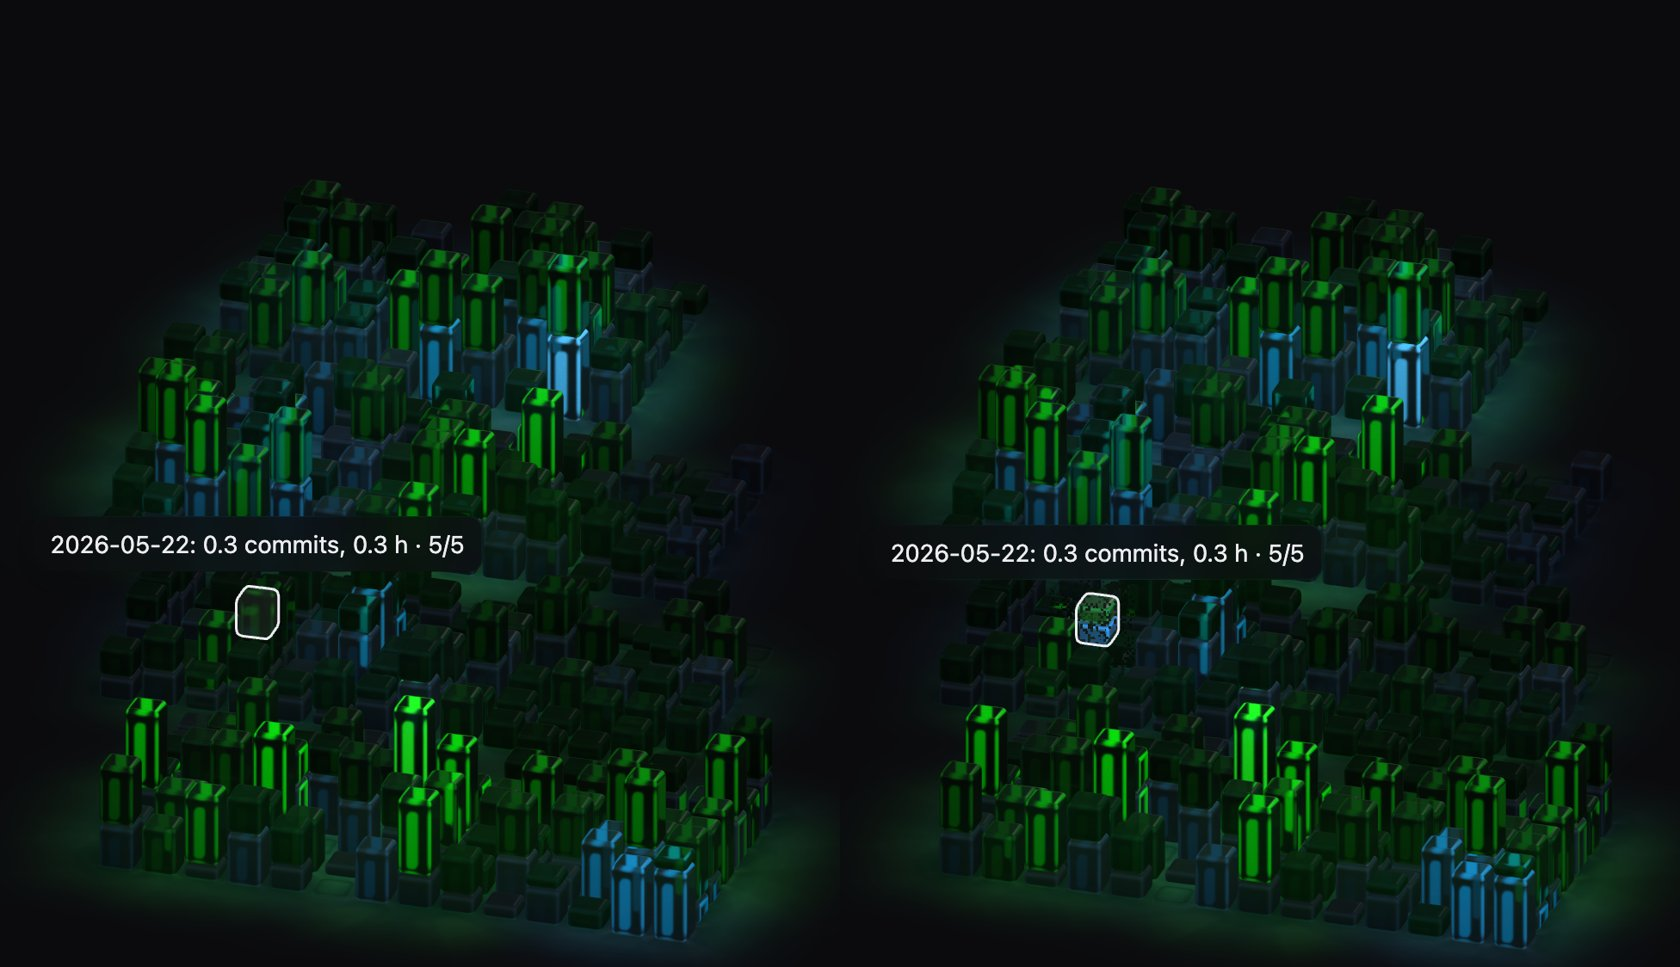
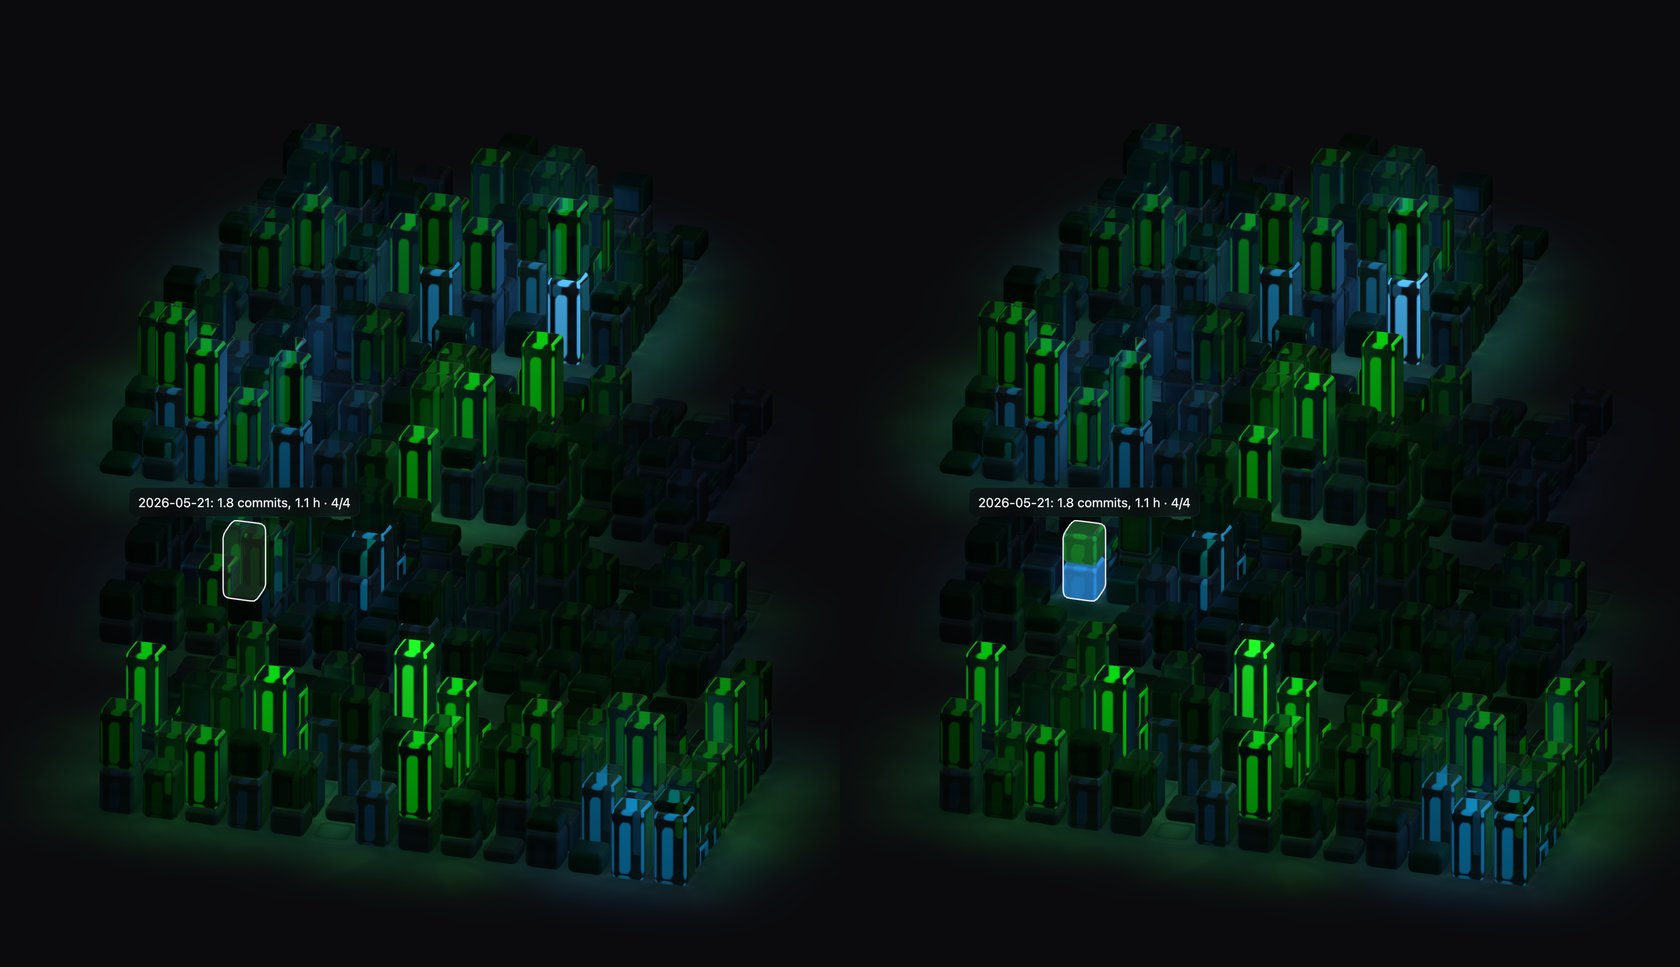
Docs: cutaway and dark-glass pictures from the current look; README describes the dark glass's edges, reflections and absorption
- docs/cutaway-light.jpg, docs/cutaway-dark.jpg: the plain fade (were the
  halftone), 4 strips, full data, settled, cutaway off (left) and on (right).
- docs/dim-blocks.jpg, docs/dim-isolated.jpg, docs/edge-light.jpg: the
  current dark glass (one picture each; they were before/after pairs of
  earlier states).
- README: the dark theme's "How it works" says what the glass does (quiet
  days, directional edges, reflections of the lit blocks, the ground's light
  dimmed by the glass); the cutaway picture's alt text matches the new day.

diff --git a/README.md b/README.md
@@ -173,7 +173,7 @@ The [demo](https://neon.bsodium.fr/) has a few presets (Technicolor, Ice, Sunset
 ## Cutaway
 
 <p align="center">
-  <img alt="Light theme, a day behind a stack of five: cutaway off (left) and on (right)" src="docs/cutaway-light.jpg" width="49%" />
+  <img alt="Light theme, a day at the back of a stack of four: cutaway off (left) and on (right)" src="docs/cutaway-light.jpg" width="49%" />
   <img alt="Dark theme, the same day: cutaway off (left) and on (right)" src="docs/cutaway-dark.jpg" width="49%" />
 </p>
 
@@ -217,7 +217,7 @@ const supported = !!document.createElement("canvas").getContext("webgl2");
 ## How it works
 
 - **Light theme.** The sun's light through the glass is traced on the GPU (`ground-light.ts`: a vertex shader that splats rays onto the ground) with refraction, Fresnel, total internal reflection, the glass's colour absorption and rounded edges. The ground's brightness is a signed difference to what it would get with no glass, so the shadows are coloured and soft and the caustics are the surplus. `glass-caustics.ts` is the readable CPU version of the same optics, and what the tests check.
-- **Dark theme.** There is no sun: the light is each block's tube. What one block casts on the ground is baked: `assets/caustic-templates.png` holds path-traced templates (Mitsuba 3) of a glass block with a tube inside, for 3 block heights x 4 heights above the ground, averaged over the square's symmetries. The graph lays the right template under every block, in the tube's colour. Tracing this live does not work: with the rays a page can afford, the result is noise.
+- **Dark theme.** There is no sun: the light is each block's tube. What one block casts on the ground is baked: `assets/caustic-templates.png` holds path-traced templates (Mitsuba 3) of a glass block with a tube inside, for 3 block heights x 4 heights above the ground, averaged over the square's symmetries. The graph lays the right template under every block, in the tube's colour. Tracing this live does not work: with the rays a page can afford, the result is noise. The glass itself is lit by the tubes too: a quiet day's glass is darker and catches its neighbours' light only as streaks on its rounded edges, on the side that faces them; it shows the lit blocks round it as specular reflections (each block follows the 8 brightest, nearest tubes, baked once, in their own colour and brighter at grazing angles); and the ground's light it shows through it is dimmed by the glass the view ray crosses on its way down, so a deep stack sees a dimmer floor.
 - **Start-up.** The blocks are cut into 5 adjacent rectangles of different sizes, each with its own 2-4 stutters and a short warm-up. A block whose tube is still off is dim, lit only by its neighbours. Afterwards, rarely and less and less often, a small batch of tubes flickers like a real sign's.
 - **Grain.** A soft, luminance-dependent noise in the last pass, like a camera's.
 
